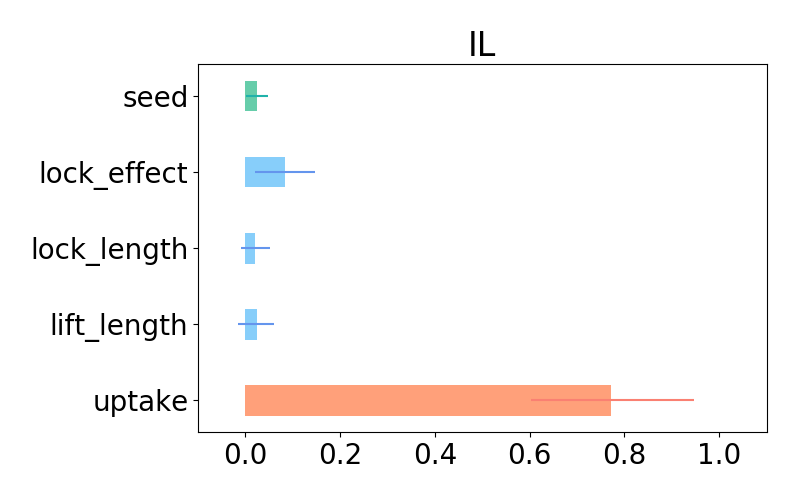
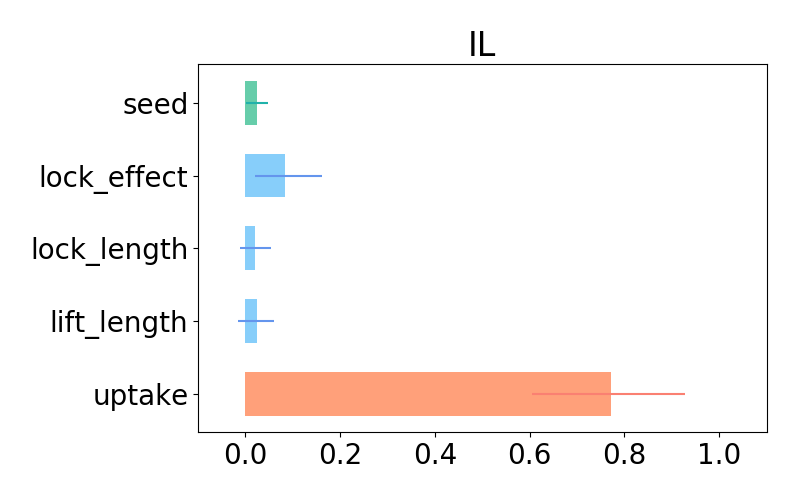
increase heigth of bars

diff --git a/examples/virsim/sobol_corona_IL.py b/examples/virsim/sobol_corona_IL.py
@@ -144,7 +144,7 @@ ax_ICp_max.set_xlim([-.1, 1.1])
 ax_ICp_max.barh(np.arange(0, len(params), 1), sobol_idx_ICp, xerr=yerr_ICp, linewidth=2, \
     color=['mediumaquamarine','lightskyblue','lightskyblue','lightskyblue', 'lightsalmon'], \
     ecolor=['lightseagreen','cornflowerblue','cornflowerblue','cornflowerblue','salmon'], \
-    height=0.4)
+    height=0.6)
 # ax_ICe_max.errorbar(np.arange(0, len(params), 1), sobol_idx_ICe, yerr=yerr_ICe, \
 #     fmt='o', elinewidth=2, color='forestgreen')
 
